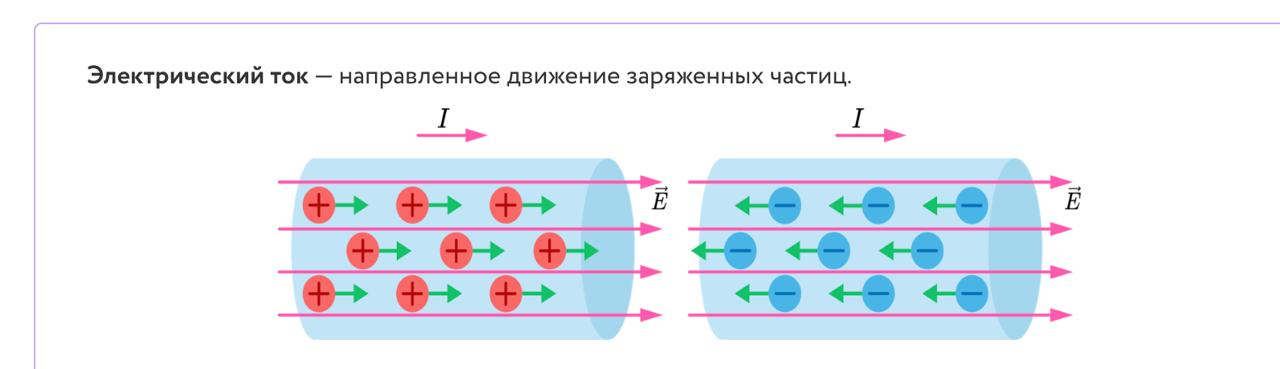
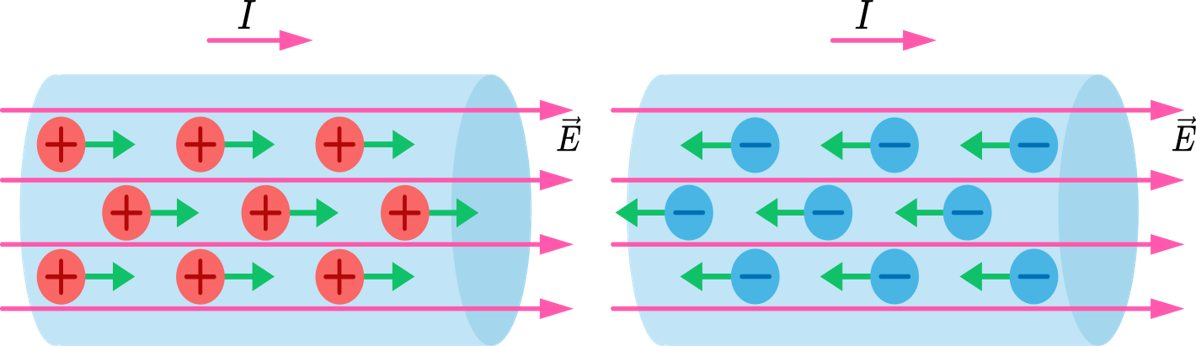
Update Foxford images with high-res crisp versions

diff --git a/physics_dc.html b/physics_dc.html
@@ -180,7 +180,7 @@
       <h3>Сторонние силы и ЭДС</h3>
       <p>Если просто соединить два заряженных шарика проводом, ток быстро прекратится, как только их заряды выровняются. Чтобы ток был <strong>постоянным</strong>, нужен источник (батарейка). Внутри источника заряды нужно перетаскивать против электрического поля — от минуса к плюсу. Для этого нужны <strong>сторонние силы</strong> (химические, механические и т.д.).</p>
       
-      <img src="images/emf_analogy.jpg" alt="Аналогия со сторонними силами" class="theory-image" />
+      <img src="images/emf_analogy.png" alt="Аналогия со сторонними силами" class="theory-image" />
       <div class="theory-image-caption">Сторонние силы работают как насос (или люди с вёдрами), поднимая заряды наверх, чтобы они снова могли скатиться вниз по внешней цепи.</div>
 
       <p><strong>Электродвижущая сила (ЭДС)</strong> — это работа этих сторонних сил по перемещению единичного положительного заряда. Обозначается буквой \( \mathcal{E} \).</p>
@@ -188,8 +188,11 @@
         \[\mathcal{E} = \frac{A_{\text{стор}}}{q}\]
       </div>
       <p><strong>Участок цепи бывает:</strong><br>
-      • <strong>Внешним:</strong> Заряды двигаются только под действием электрического поля (резисторы, лампочки).<br>
-      • <strong>Внутренним:</strong> Внутри батарейки, где заряды тащат сторонние силы.</p>
+      • <strong>Внешним:</strong> Заряды двигаются только под действием электрической силы (различные потребители тока, провода).<br>
+      • <strong>Внутренним:</strong> Участок внутри источника тока, где заряды двигаются под действием сторонней и электрической сил.</p>
+
+      <img src="images/external_internal.png" alt="Внешний и внутренний участки цепи" class="theory-image" style="max-width: 80%;" />
+      <div class="theory-image-caption">Слева — движение по внешней цепи. Справа — работа сторонних сил внутри источника, перемещающих заряд против кулоновских сил.</div>
     </div>
 
     <div class="theory-card accent">
